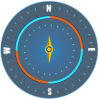
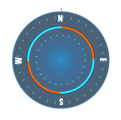
优化

diff --git a/src/hooks/drone/useAddWaylineEntityById.ts b/src/hooks/drone/useAddWaylineEntityById.ts
@@ -1,0 +1,89 @@
+import {useWaylineById} from "@/hooks/drone/index.ts";
+import {useEffect} from "react";
+import {getCustomSource} from "@/hooks/public/custom-source.ts";
+import takeOffPng from "@/assets/images/drone/wayline/takeoff.svg";
+import {waylinePointConfig} from "@/lib/wayline.ts";
+
+export const useAddWaylineEntityById = (waylineId?: string) => {
+  const {data: currentWaylineData} = useWaylineById(waylineId);
+  // 是否添加过航线entity
+
+  // 撒点撒线
+  useEffect(() => {
+    if (!currentWaylineData) return;
+
+    if (currentWaylineData && currentWaylineData.route_point_list && currentWaylineData.route_point_list.length > 0) {
+      getCustomSource("waylines-preview")?.entities.removeAll();
+      const takeoffPoint = currentWaylineData.take_off_ref_point?.split(",");
+      if (takeoffPoint && takeoffPoint.length > 1) {
+        const [takeoffLat, takeoffLon, takeoffHei] = takeoffPoint;
+        getCustomSource("waylines-preview")?.entities.add({
+          position: Cesium.Cartesian3.fromDegrees(+takeoffLon, +takeoffLat, +takeoffHei),
+          billboard: {
+            image: takeOffPng,
+            width: 48,
+            height: 48,
+            heightReference: Cesium.HeightReference.RELATIVE_TO_GROUND,
+            disableDepthTestDistance: Number.POSITIVE_INFINITY
+          },
+          polyline: {
+            positions: [
+              Cesium.Cartesian3.fromDegrees(+takeoffLon, +takeoffLat, +takeoffHei),
+              Cesium.Cartesian3.fromDegrees(+takeoffLon, +takeoffLat, currentWaylineData.take_off_security_height)
+            ],
+            width: 2,
+            material: new Cesium.PolylineDashMaterialProperty({
+              color: Cesium.Color.fromCssColorString("#4CAF50").withAlpha(0.8),
+              dashLength: 8.0
+            })
+          }
+        });
+        if (currentWaylineData.route_point_list.length > 0) {
+          getCustomSource("waylines-preview")?.entities.add({
+            polyline: {
+              positions: [
+                Cesium.Cartesian3.fromDegrees(+takeoffLon, +takeoffLat, currentWaylineData.take_off_security_height),
+                Cesium.Cartesian3.fromDegrees(currentWaylineData.route_point_list[0].longitude, currentWaylineData.route_point_list[0].latitude, currentWaylineData.route_point_list[0].height || currentWaylineData.global_height)
+              ],
+              width: 2,
+              material: Cesium.Color.fromCssColorString("#4CAF50").withAlpha(0.8)
+            }
+          });
+        }
+      }
+      currentWaylineData.route_point_list.forEach((point, index) => {
+        getCustomSource("waylines-preview")?.entities.add(waylinePointConfig({
+          longitude: point.longitude,
+          latitude: point.latitude,
+          height: point.height || currentWaylineData.global_height,
+          text: (index + 1).toString()
+        }));
+        getCustomSource("waylines-preview")?.entities.add({
+          polyline: currentWaylineData.route_point_list[index + 1] ? {
+            positions: [
+              Cesium.Cartesian3.fromDegrees(point.longitude, point.latitude, point.height || currentWaylineData.global_height),
+              Cesium.Cartesian3.fromDegrees(currentWaylineData.route_point_list[index + 1].longitude,
+                currentWaylineData.route_point_list[index + 1].latitude,
+                currentWaylineData.route_point_list[index + 1].height || currentWaylineData.global_height)
+            ],
+            width: 2,
+            material: Cesium.Color.fromCssColorString("#4CAF50").withAlpha(0.8)
+          } : {}
+        });
+        getCustomSource("waylines-preview")?.entities.add({
+          polyline: {
+            positions: [
+              Cesium.Cartesian3.fromDegrees(point.longitude, point.latitude, 0),
+              Cesium.Cartesian3.fromDegrees(point.longitude, point.latitude, point.height || currentWaylineData.global_height)
+            ],
+            width: 2,
+            material: new Cesium.PolylineDashMaterialProperty({
+              color: Cesium.Color.fromCssColorString("#4CAF50").withAlpha(0.8),
+              dashLength: 8.0
+            })
+          }
+        });
+      });
+    }
+  }, [currentWaylineData]);
+};

diff --git a/src/pages/hgyq/Login.tsx b/src/pages/hgyq/Login.tsx
@@ -9,7 +9,8 @@ import {useAjax} from "@/lib/http.ts";
 import {HTTP_PREFIX} from "@/api/manage.ts";
 import {ELocalStorageKey, EUserType} from "@/types/enum.ts";
 import {useNavigate} from "react-router-dom";
-import companyTitle from "@/assets/images/drone/company-title.png"
+import companyTitle from "@/assets/images/drone/company-title.png";
+import {toast} from "@/components/ui/use-toast.ts";
 
 const formSchema = z.object({
   username: z.string().min(3, {
@@ -22,35 +23,41 @@ const formSchema = z.object({
 
 const Login = () => {
   const {post} = useAjax();
-  const navigate = useNavigate()
+  const navigate = useNavigate();
 
   const form = useForm<z.infer<typeof formSchema>>({
     resolver: zodResolver(formSchema),
     defaultValues: {
-      username: "xiaogang",
-      password: "111111"
+      username: "test999",
+      password: "123456"
     },
   });
 
   const onSubmit = async (values: z.infer<typeof formSchema>) => {
-    const url = `${HTTP_PREFIX}/login`;
-    const result = await post<Resource<{
-      access_token: string
-      workspace_id: string
-      username: string
-      user_id: string
-    }>>(url, {
-      ...values,
-      flag: EUserType.Web,
-    });
-    if (result.data.code === 0) {
+    try {
+      const url = `${HTTP_PREFIX}/login`;
+      const result = await post<Resource<{
+        access_token: string
+        workspace_id: string
+        username: string
+        user_id: string
+      }>>(url, {
+        ...values,
+        flag: EUserType.Web,
+      });
       localStorage.setItem(ELocalStorageKey.Token, result.data.data.access_token);
       localStorage.setItem(ELocalStorageKey.WorkspaceId, result.data.data.workspace_id);
       localStorage.setItem(ELocalStorageKey.Username, result.data.data.username);
       localStorage.setItem(ELocalStorageKey.UserId, result.data.data.user_id);
       localStorage.setItem(ELocalStorageKey.Flag, EUserType.Web.toString());
-      navigate("/depart")
+      navigate("/depart");
+    } catch (err: any) {
+      toast({
+        description: "用户名或密码错误，登录失败！",
+        variant: "destructive"
+      });
     }
+
   };
 
   return (

diff --git a/src/components/drone/public/DronePanel.tsx b/src/components/drone/public/DronePanel.tsx
@@ -18,6 +18,7 @@ import TakeOffFormPanel from "@/components/drone/public/TakeOffFormPanel.tsx";
 import {useVisible} from "@/hooks/public/utils.ts";
 import remoteControlPng from "@/assets/images/drone/remote-control.png";
 import compassPng from "@/assets/images/drone/compass.png";
+import pointerPng from "@/assets/images/drone/pointer.png";
 import {cn} from "@/lib/utils.ts";
 import KeyboardControl from "@/components/drone/public/KeyboardControl.tsx";
 import {useNavigate} from "react-router-dom";
@@ -537,13 +538,14 @@ const DronePanel = () => {
                 hideDebugPanel();
               }}/>}
           </div>
-          <div className={"border-r-[1px] border-r-[#104992]/[.85] h-full content-center"}>
+          <div className={"border-r-[1px] border-r-[#104992]/[.85] h-full content-center relative"}>
             <img src={compassPng} alt=""
                  style={{
-                   transform: `rotate(${headingDegrees || 0}deg)`,
+                   transform: `rotate(${-(headingDegrees || 0)}deg)`,
                    transition: "transform 0.3s ease-out"
                  }}
                  className={"will-change-transform"}/>
+            <img src={pointerPng} alt="" className={"absolute left-1/2 top-1/2 -translate-x-1/2 -translate-y-1/2"}/>
           </div>
           <div className={"flex flex-col text-[12px] text-[#D0D0D0] justify-center px-2 space-y-2"}>
             <span>指点飞行</span>

diff --git a/src/components/drone/public/CockpitScene.tsx b/src/components/drone/public/CockpitScene.tsx
@@ -12,6 +12,7 @@ import {
 import {useSearchParams} from "react-router-dom";
 import {ELocalStorageKey} from "@/types/enum.ts";
 import {useWaylinJobs} from "@/hooks/drone";
+import {useAddWaylineEntityById} from "@/hooks/drone/useAddWaylineEntityById.ts";
 
 const mapLayerList = [
   {
@@ -124,6 +125,7 @@ const CockpitScene = () => {
   useEntityCustomSource("drone");
   useEntityCustomSource("drone-wayline");
   useEntityCustomSource("waylines-create");
+  useEntityCustomSource("waylines-preview");
 
   useEffect(() => {
     if (realTimeDeviceInfo && realTimeDeviceInfo.device) {
@@ -141,10 +143,11 @@ const CockpitScene = () => {
       }
     } else {
       removeDroneModel();
+      getCustomSource("waylines-preview")?.entities.removeAll();
     }
   }, [realTimeDeviceInfo]);
 
-  /*const {data: currentJobList} = useWaylinJobs(workspaceId, {
+  const {data: currentJobList} = useWaylinJobs(workspaceId, {
     page: 1,
     page_size: 10,
     status: 2,
@@ -152,7 +155,10 @@ const CockpitScene = () => {
   });
 
   console.log("currentJobList");
-  console.log(currentJobList);*/
+  console.log(currentJobList);
+
+  useAddWaylineEntityById(currentJobList?.list?.[0]?.file_id);
+
 
   /*useEffect(() => {
     dynamicAddSceneDroneModel(dronePositionRef.current);

diff --git a/src/hooks/drone/elements/index.ts b/src/hooks/drone/elements/index.ts
@@ -44,6 +44,7 @@ export interface Layer {
 }
 
 export const useElementsGroup = () => {
+  const workspace_id = localStorage.getItem(ELocalStorageKey.WorkspaceId);
   const {get} = useAjax();
   const url = `${PREFIX}/workspaces/` + workspace_id + "/element-groups";
   return useSWR(url, async (path) => (await get<Resource<Layer[]>>(path)).data.data);
@@ -51,6 +52,7 @@ export const useElementsGroup = () => {
 
 export const useElementsGroupActions = () => {
   const {post, delete: deleteClient} = useAjax();
+  const workspace_id = localStorage.getItem(ELocalStorageKey.WorkspaceId);
   const addGroup = (body: { name: string, parent_id: string }) =>
     post(`${PREFIX}/workspaces/${workspace_id}/element-groups/add`, body);
 
@@ -97,6 +99,7 @@ export interface ElementParam {
 
 export const useElementActions = () => {
   const {post, put, delete: deleteClient} = useAjax();
+  const workspace_id = localStorage.getItem(ELocalStorageKey.WorkspaceId);
 
   const addElement = (groupId: string, geometry: ElementParam) =>
     post(`${PREFIX}/workspaces/${workspace_id}/element-groups/${groupId}/elements`, geometry as any);

diff --git a/src/components/drone/public/TsaScene.tsx b/src/components/drone/public/TsaScene.tsx
@@ -9,6 +9,7 @@ import dronePng from "@/assets/images/drone/drone.png";
 import {EntitySize} from "@/assets/datas/enum.ts";
 import {useConnectMqtt} from "@/hooks/drone/useConnectMqtt.ts";
 import {addDroneModel, addHeightPolyline, moveDroneToTarget, removeDroneModel} from "@/hooks/drone/wayline";
+import SearchPositionInput from "@/components/drone/SearchPositionInput.tsx";
 
 const mapLayerList = [
   {
@@ -111,7 +112,11 @@ const TsaScene = () => {
   }, [realTimeDeviceInfo]);
 
   return (
-    <div id="cesiumContainer" className={"h-full"}></div>
+    <div id="cesiumContainer" className={"h-full relative"}>
+      <div className={"absolute right-0 top-0 w-32 border-2 z-50"}>
+        <SearchPositionInput/>
+      </div>
+    </div>
   );
 };
 

diff --git a/src/components/drone/SearchPositionInput.tsx b/src/components/drone/SearchPositionInput.tsx
@@ -1,0 +1,24 @@
+import {Input} from "@/components/ui/input.tsx";
+import {useEffect, useState} from "react";
+import {useAjax} from "@/lib/http.ts";
+import {useDebouncedValue} from "@/hooks/public/utils.ts";
+
+const MAP_API_PREFIX = "/map/api/v1";
+
+const SearchPositionInput = () => {
+  const [value, setValue] = useState("");
+  const debouncedValue = useDebouncedValue(value, 300);
+  const {get} = useAjax();
+
+  useEffect(() => {
+    if (!debouncedValue) return;
+    console.log(111);
+  }, [debouncedValue]);
+
+  return (
+    <Input value={value} onChange={e => setValue(e.target.value)} className={"text-black"}/>
+  );
+};
+
+export default SearchPositionInput;
+

diff --git a/src/components/drone/public/TopBar.tsx b/src/components/drone/public/TopBar.tsx
@@ -37,7 +37,8 @@ const TopBar = () => {
   return (
     <div className={"h-[70px] bg-gradient-to-b from-[#1D3A7A]/[.82] to-[#1157B4]/[.82] " +
       "flex justify-between items-center px-[66px] py-[18px]"}>
-      <div className={"text-[24px] font-semibold"}>{currentWorkSpace}无人机管理平台</div>
+      {/*<div className={"text-[24px] font-semibold"}>{currentWorkSpace}无人机管理平台</div>*/}
+      <div className={"text-[24px] font-semibold"}>绣花针低空管控平台</div>
       <div className={"flex space-x-4"}>
         <CircleUser/>
         <span>{currentUser?.username || "未登录"} |</span>

diff --git a/src/lib/websocket/useConnectWebSocket.ts b/src/lib/websocket/useConnectWebSocket.ts
@@ -3,8 +3,10 @@ import {useEffect} from "react";
 import {getWebsocketUrl} from "@/lib/websocket/config.ts";
 
 export const useConnectWebSocket = (messageHandler: MessageHandler) => {
+  const url = getWebsocketUrl();
+
   useEffect(() => {
-    const webSocket = new ConnectWebSocket(getWebsocketUrl());
+    const webSocket = new ConnectWebSocket(url);
 
     webSocket?.registerMessageHandler(messageHandler);
     webSocket?.initSocket();
@@ -12,5 +14,5 @@ export const useConnectWebSocket = (messageHandler: MessageHandler) => {
     return () => {
       webSocket?.close();
     };
-  }, []);
+  }, [url]);
 };

diff --git a/src/hooks/drone/useConnectMqtt.ts b/src/hooks/drone/useConnectMqtt.ts
@@ -6,9 +6,8 @@ import {ELocalStorageKey} from "@/types/enum.ts";
 
 const DRC_API_PREFIX = "/control/api/v1";
 
-const workspaceId: string = localStorage.getItem(ELocalStorageKey.WorkspaceId) || "";
-
 export const useConnectMqtt = (connect: boolean = true) => {
+  const workspaceId: string = localStorage.getItem(ELocalStorageKey.WorkspaceId) || "";
   const {osdVisible, setMqttState, setClientId} = useSceneStore();
   const {post} = useAjax();
   const mqttStateRef = useRef<UranusMqtt | null>(null);

diff --git a/src/hooks/drone/map-photo/index.ts b/src/hooks/drone/map-photo/index.ts
@@ -46,7 +46,8 @@ interface Pagination {
 
 export const useMapPhoto = () => {
   const {get} = useAjax();
-  const url = `${MEDIA_API}/files/${workspaceId}/files?page=1&page_size=1000`;
+  const _workspaceId = localStorage.getItem(ELocalStorageKey.WorkspaceId)!;
+  const url = `${MEDIA_API}/files/${_workspaceId}/files?page=1&page_size=1000`;
   return useSWR(url, async (path) => (await get<Resource<Data>>(path)).data.data);
 };
 
